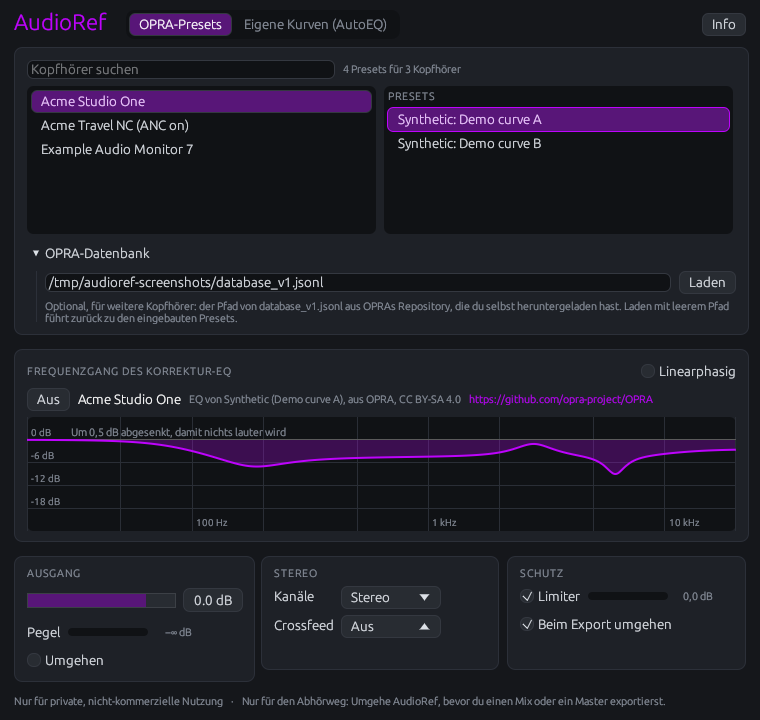
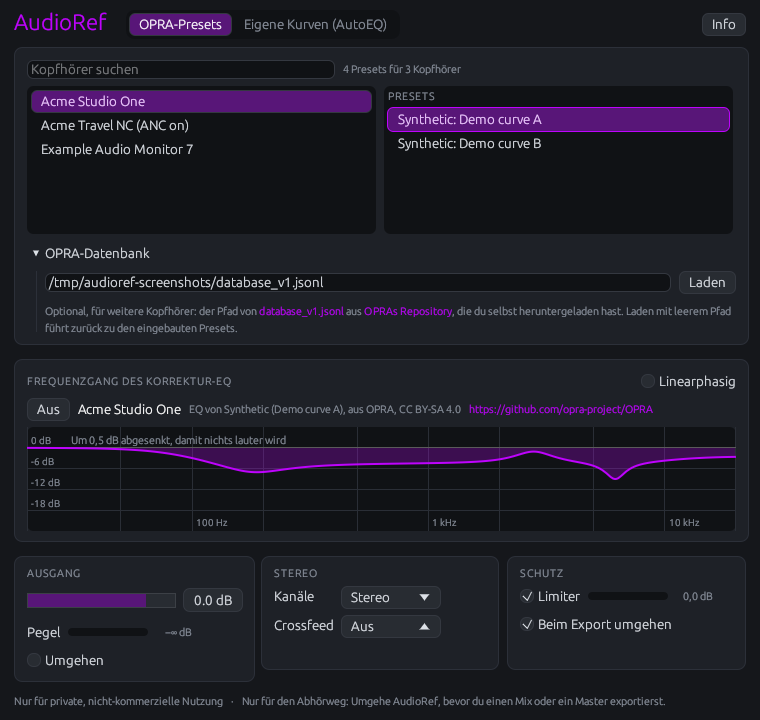
Link OPRA's database, OPRA and AutoEQ in the window's notes
The note under "OPRA database" now links database_v1.jsonl to the
download of OPRA's database and "OPRA's repository" to the repository;
the note of the own curves links AutoEQ's repository. The texts with
links are typed texts in the core (i18n::Linked, in pieces), so the
window draws each link where its words are. egui-baseview opens links
with open::that_detached, without nih-plug's AsyncExecutor.

Claude-Session: https://claude.ai/code/session_01LTkkJNP8cWNV9DTV4LfbNk

Changed region(s): [[0.0303, 0.3972, 0.9684, 0.7333], [0.8776, 0.4889, 0.9684, 0.55]]

diff --git a/crates/audioref-core/src/i18n.rs b/crates/audioref-core/src/i18n.rs
@@ -11,6 +11,7 @@
 //! assert_eq!(Param::Output.name(Lang::from_locale("en-GB")), "Output");
 //! ```
 
+use crate::profiles::{AUTOEQ_REPOSITORY, OPRA_DATABASE_LINK, OPRA_REPOSITORY};
 use crate::stereo::{Channels, Crossfeed};
 
 /// A language of AudioRef's texts.
@@ -206,9 +207,6 @@ impl Notice {
 pub enum Text {
     /// The heading of the part where OPRA's file is loaded.
     Database,
-    /// What the file is for, that users download it themselves, and how to go back to the
-    /// built-in presets.
-    DatabaseHint,
     /// The button that loads the file.
     Load,
     /// While the file loads.
@@ -233,8 +231,6 @@ pub enum Text {
     SourceOpra,
     /// The tab with the own measurement and target.
     SourceCurves,
-    /// What the files of the own curves are, and that users download them themselves.
-    CurvesHint,
     /// The label of the measurement's file.
     Measurement,
     /// The label of the target's file.
@@ -265,9 +261,8 @@ pub enum Text {
 
 impl Text {
     /// All texts, e.g. for tests.
-    pub const ALL: [Self; 28] = [
+    pub const ALL: [Self; 26] = [
         Self::Database,
-        Self::DatabaseHint,
         Self::Load,
         Self::Loading,
         Self::NotOpra,
@@ -280,7 +275,6 @@ impl Text {
         Self::TurnOff,
         Self::SourceOpra,
         Self::SourceCurves,
-        Self::CurvesHint,
         Self::Measurement,
         Self::Target,
         Self::NotCurve,
@@ -308,9 +302,6 @@ impl Text {
     fn en(self) -> &'static str {
         match self {
             Self::Database => "OPRA database",
-            Self::DatabaseHint => {
-                "Optional, for more headphones: the path of database_v1.jsonl from OPRA's repository, which you downloaded yourself. Load with an empty path to go back to the built-in presets."
-            }
             Self::Load => "Load",
             Self::Loading => "Loading…",
             Self::NotOpra => "This file isn't OPRA's database.",
@@ -323,9 +314,6 @@ impl Text {
             Self::TurnOff => "Off",
             Self::SourceOpra => "OPRA presets",
             Self::SourceCurves => "Own curves (AutoEQ)",
-            Self::CurvesHint => {
-                "A measurement of your headphones and a target, as CSV files that you downloaded yourself, e.g. from AutoEQ's repository: measurements/oratory1990/data/over-ear/… and targets/…."
-            }
             Self::Measurement => "Measurement",
             Self::Target => "Target",
             Self::NotCurve => {
@@ -347,9 +335,6 @@ impl Text {
     fn de(self) -> &'static str {
         match self {
             Self::Database => "OPRA-Datenbank",
-            Self::DatabaseHint => {
-                "Optional, für weitere Kopfhörer: der Pfad von database_v1.jsonl aus OPRAs Repository, die du selbst heruntergeladen hast. Laden mit leerem Pfad führt zurück zu den eingebauten Presets."
-            }
             Self::Load => "Laden",
             Self::Loading => "Wird geladen …",
             Self::NotOpra => "Diese Datei ist nicht OPRAs Datenbank.",
@@ -362,9 +347,6 @@ impl Text {
             Self::TurnOff => "Aus",
             Self::SourceOpra => "OPRA-Presets",
             Self::SourceCurves => "Eigene Kurven (AutoEQ)",
-            Self::CurvesHint => {
-                "Eine Messung deiner Kopfhörer und eine Zielkurve, als CSV-Dateien, die du selbst heruntergeladen hast, z. B. aus AutoEQs Repository: measurements/oratory1990/data/over-ear/… und targets/…."
-            }
             Self::Measurement => "Messung",
             Self::Target => "Zielkurve",
             Self::NotCurve => {
@@ -380,6 +362,92 @@ impl Text {
             Self::Protection => "Schutz",
             Self::LinearPhase => "Linearphasig",
             Self::DbPerOctave => " dB/Okt.",
+        }
+    }
+}
+
+/// A piece of a text with links: plain text, or a link with its text and its address.
+#[derive(Debug, Clone, Copy, PartialEq, Eq, Hash)]
+pub enum Piece {
+    /// Plain text.
+    Plain(&'static str),
+    /// A link: the text that shows, and the address it opens.
+    Link {
+        /// The text that shows.
+        text: &'static str,
+        /// The address it opens in the browser.
+        url: &'static str,
+    },
+}
+
+/// The texts of the window with links in them, in pieces, so the window draws the links where
+/// their words are.
+#[derive(Debug, Clone, Copy, PartialEq, Eq, Hash)]
+pub enum Linked {
+    /// What OPRA's file is for, where it comes from, that users download it themselves, and how
+    /// to go back to the built-in presets.
+    DatabaseHint,
+    /// What the files of the own curves are, where they come from, and that users download them
+    /// themselves.
+    CurvesHint,
+}
+
+impl Linked {
+    /// All texts with links, e.g. for tests.
+    pub const ALL: [Self; 2] = [Self::DatabaseHint, Self::CurvesHint];
+
+    /// The pieces of the text in a language, in order.
+    #[must_use]
+    pub fn pieces(self, lang: Lang) -> &'static [Piece] {
+        const DATABASE: Piece = Piece::Link {
+            text: "database_v1.jsonl",
+            url: OPRA_DATABASE_LINK,
+        };
+        match (self, lang) {
+            (Self::DatabaseHint, Lang::En) => &[
+                Piece::Plain("Optional, for more headphones: the path of "),
+                DATABASE,
+                Piece::Plain(" from "),
+                Piece::Link {
+                    text: "OPRA's repository",
+                    url: OPRA_REPOSITORY,
+                },
+                Piece::Plain(
+                    ", which you downloaded yourself. Load with an empty path to go back to the built-in presets.",
+                ),
+            ],
+            (Self::DatabaseHint, Lang::De) => &[
+                Piece::Plain("Optional, für weitere Kopfhörer: der Pfad von "),
+                DATABASE,
+                Piece::Plain(" aus "),
+                Piece::Link {
+                    text: "OPRAs Repository",
+                    url: OPRA_REPOSITORY,
+                },
+                Piece::Plain(
+                    ", die du selbst heruntergeladen hast. Laden mit leerem Pfad führt zurück zu den eingebauten Presets.",
+                ),
+            ],
+            (Self::CurvesHint, Lang::En) => &[
+                Piece::Plain(
+                    "A measurement of your headphones and a target, as CSV files that you downloaded yourself, e.g. from ",
+                ),
+                Piece::Link {
+                    text: "AutoEQ's repository",
+                    url: AUTOEQ_REPOSITORY,
+                },
+                Piece::Plain(": measurements/oratory1990/data/over-ear/… and targets/…."),
+            ],
+            (Self::CurvesHint, Lang::De) => &[
+                Piece::Plain(
+                    "Eine Messung deiner Kopfhörer und eine Zielkurve, als CSV-Dateien, die du selbst heruntergeladen hast, z. B. aus ",
+                ),
+                Piece::Link {
+                    text: "AutoEQs Repository",
+                    url: AUTOEQ_REPOSITORY,
+                },
+                Piece::Plain(": measurements/oratory1990/data/over-ear/… und targets/…."),
+            ],
         }
     }
 }
@@ -1006,7 +1074,8 @@ impl About {
 
 #[cfg(test)]
 mod tests {
-    use super::{About, CurveMessage, Hint, Lang, Message, Notice, Param, Text};
+    use super::{About, CurveMessage, Hint, Lang, Linked, Message, Notice, Param, Piece, Text};
+    use crate::profiles::{AUTOEQ_REPOSITORY, OPRA_DATABASE_LINK, OPRA_REPOSITORY};
     use crate::stereo::{Channels, Crossfeed};
 
     #[test]
@@ -1073,6 +1142,74 @@ mod tests {
             }
         }
         assert_eq!(Text::Load.text(Lang::De), "Laden");
+    }
+
+    /// The links of a text with links, as (text, address).
+    fn links(text: Linked, lang: Lang) -> Vec<(&'static str, &'static str)> {
+        text.pieces(lang)
+            .iter()
+            .filter_map(|piece| match *piece {
+                Piece::Plain(_) => None,
+                Piece::Link { text, url } => Some((text, url)),
+            })
+            .collect()
+    }
+
+    /// A text with links as it reads, without the addresses.
+    fn reads(text: Linked, lang: Lang) -> String {
+        text.pieces(lang)
+            .iter()
+            .map(|piece| match *piece {
+                Piece::Plain(text) | Piece::Link { text, .. } => text,
+            })
+            .collect()
+    }
+
+    #[test]
+    fn every_text_with_links_exists_in_every_language() {
+        for text in Linked::ALL {
+            assert_ne!(reads(text, Lang::En), reads(text, Lang::De), "{text:?}");
+            for lang in Lang::ALL {
+                assert!(!links(text, lang).is_empty(), "{text:?} in {lang:?}");
+                for piece in text.pieces(lang) {
+                    let words = match *piece {
+                        Piece::Plain(words) => words,
+                        Piece::Link { text, url } => {
+                            assert!(url.starts_with("https://"), "{url}");
+                            text
+                        }
+                    };
+                    assert!(!words.is_empty(), "{text:?} in {lang:?}");
+                }
+            }
+        }
+    }
+
+    #[test]
+    fn the_hints_link_opra_and_autoeq() {
+        assert_eq!(
+            links(Linked::DatabaseHint, Lang::En),
+            [
+                ("database_v1.jsonl", OPRA_DATABASE_LINK),
+                ("OPRA's repository", OPRA_REPOSITORY),
+            ]
+        );
+        assert_eq!(
+            links(Linked::DatabaseHint, Lang::De),
+            [
+                ("database_v1.jsonl", OPRA_DATABASE_LINK),
+                ("OPRAs Repository", OPRA_REPOSITORY),
+            ]
+        );
+        assert_eq!(
+            links(Linked::CurvesHint, Lang::De),
+            [("AutoEQs Repository", AUTOEQ_REPOSITORY)]
+        );
+        assert_eq!(
+            reads(Linked::CurvesHint, Lang::En),
+            "A measurement of your headphones and a target, as CSV files that you downloaded yourself, e.g. from AutoEQ's repository: measurements/oratory1990/data/over-ear/… and targets/…."
+        );
+        assert!(OPRA_DATABASE_LINK.ends_with("/dist/database_v1.jsonl"));
     }
 
     #[test]

diff --git a/crates/audioref/src/editor.rs b/crates/audioref/src/editor.rs
@@ -16,8 +16,11 @@ use audioref_core::cascade::{Cascade, grid};
 use audioref_core::design::{BASS_DB, MAX_BOOST_DB, Settings, TILT_DB_PER_OCTAVE};
 use audioref_core::filter::Phase;
 use audioref_core::gain::gain_to_db;
-use audioref_core::i18n::{About, CurveMessage, Hint, LEVEL_FLOOR_DB, Lang, Message, Notice, Text};
+use audioref_core::i18n::{
+    About, CurveMessage, Hint, LEVEL_FLOOR_DB, Lang, Linked, Message, Notice, Piece, Text,
+};
 use audioref_core::opra::Database;
+use audioref_core::profiles::OPRA_REPOSITORY;
 use audioref_core::state::{SavedCorrection, SavedDesign};
 use audioref_core::stereo::{Channels, Crossfeed};
 use nih_plug::prelude::{BoolParam, Editor, IntParam, Param, ParamSetter};
@@ -36,9 +39,6 @@ const LIST_HEIGHT: f32 = 140.0;
 
 /// The most headphones the search lists.
 const RESULTS: usize = 200;
-
-/// OPRA's repository, linked under the preset's author, as OPRA asks.
-const OPRA_URL: &str = "https://github.com/opra-project/OPRA";
 
 /// The height of the cards of the controls, so they end together.
 const CONTROLS_HEIGHT: f32 = 92.0;
@@ -370,8 +370,26 @@ fn database(
             if let Some(problem) = problem {
                 ui.colored_label(theme::HOT, problem);
             }
-            ui.add(egui::Label::new(theme::note(Text::DatabaseHint.text(lang))).wrap());
+            linked(ui, lang, Linked::DatabaseHint, |words| theme::note(words));
         });
+}
+
+/// A text with links, wrapped as one paragraph: its words in a style, its links small in the
+/// accent color. egui-baseview opens a link in the browser on its own thread, with no executor.
+fn linked(ui: &mut egui::Ui, lang: Lang, text: Linked, style: fn(&str) -> egui::RichText) {
+    ui.horizontal_wrapped(|ui| {
+        ui.spacing_mut().item_spacing.x = 0.0;
+        for piece in text.pieces(lang) {
+            match *piece {
+                Piece::Plain(words) => {
+                    ui.label(style(words));
+                }
+                Piece::Link { text, url } => {
+                    ui.hyperlink_to(egui::RichText::new(text).small(), url);
+                }
+            }
+        }
+    });
 }
 
 /// The search with what it searches, and the headphones it found beside their presets.
@@ -552,7 +570,9 @@ fn curves(
     params: &AudioRefParams,
     shared: &Shared,
 ) {
-    ui.add(egui::Label::new(egui::RichText::new(Text::CurvesHint.text(lang)).small()).wrap());
+    linked(ui, lang, Linked::CurvesHint, |words| {
+        egui::RichText::new(words).small()
+    });
     let rows = [
         (
             Which::Measurement,
@@ -718,7 +738,11 @@ fn correction(
         }
         ui.label(egui::RichText::new(&saved.headphones).strong());
         ui.label(theme::note(attribution.text(lang)));
-        ui.hyperlink_to(egui::RichText::new(OPRA_URL).small(), OPRA_URL);
+        // OPRA's repository, linked under the preset's author, as OPRA asks.
+        ui.hyperlink_to(
+            egui::RichText::new(OPRA_REPOSITORY).small(),
+            OPRA_REPOSITORY,
+        );
     });
     show_curve(ui, lang, state.curve.as_ref());
 }

diff --git a/crates/audioref-core/src/profiles.rs b/crates/audioref-core/src/profiles.rs
@@ -26,6 +26,16 @@
 pub const OPRA_DATABASE_URL: &str =
     "https://raw.githubusercontent.com/opra-project/OPRA/main/dist/database_v1.jsonl";
 
+/// OPRA's repository, as the window links it.
+pub const OPRA_REPOSITORY: &str = "https://github.com/opra-project/OPRA";
+
+/// OPRA's database as the window links it: GitHub's download of the file on the main branch.
+pub const OPRA_DATABASE_LINK: &str =
+    "https://github.com/opra-project/OPRA/raw/refs/heads/main/dist/database_v1.jsonl";
+
+/// AutoEQ's repository, as the window links it.
+pub const AUTOEQ_REPOSITORY: &str = "https://github.com/jaakkopasanen/AutoEq";
+
 /// The start of every address of a file in AutoEQ's repository, on its main branch.
 pub const AUTOEQ_URL: &str = "https://raw.githubusercontent.com/jaakkopasanen/AutoEq/master/";
 

diff --git a/docs/manual/de.md b/docs/manual/de.md
@@ -157,7 +157,7 @@ Neben der Suche steht, wie viele Presets die Liste enthält, z. B. „Eingebaut:
 
 Für andere Kopfhörer lädst du OPRAs ganze Datenbank herunter und lässt AudioRef sie lesen:
 
-1. Lade die Datei [`dist/database_v1.jsonl`](https://github.com/opra-project/OPRA/tree/main/dist) aus OPRAs Repository herunter, etwa 12 MB, und leg sie irgendwo ab, z. B. in deinen Dokumenten.
+1. Lade die Datei [`dist/database_v1.jsonl`](https://github.com/opra-project/OPRA/tree/main/dist) aus OPRAs Repository herunter, etwa 12 MB, und leg sie irgendwo ab, z. B. in deinen Dokumenten. Der Hinweis unter dem Feld in **OPRA-Datenbank** verlinkt die Datei auch: Klicke dort auf `database_v1.jsonl`, um sie im Browser herunterzuladen, oder auf **OPRAs Repository**, um zu sehen, woher sie kommt.
 2. Öffne im Fenster von AudioRef **OPRA-Datenbank** unter den Listen.
 3. Füge den Pfad der Datei in das Feld ein, z. B. `C:\Users\du\Documents\database_v1.jsonl` oder `/Users/du/Documents/database_v1.jsonl`, und klicke **Laden**.
 
@@ -209,7 +209,7 @@ Beide Kurven sind CSV-Dateien mit einer Spalte Frequenzen in Hz und einer Spalte
 - Messungen, z. B. `measurements/oratory1990/data/over-ear/AKG K240 Studio.csv`.
 - Zielkurven, z. B. `targets/Harman over-ear 2018.csv`.
 
-Lade sie selbst herunter: AudioRef liefert keine Messungen mit. Sie sind nur für deine private, nicht-kommerzielle Nutzung, siehe [Nutzungsbedingungen](#nutzungsbedingungen).
+Lade sie selbst herunter: AudioRef liefert keine Messungen mit. Der Hinweis oben im Tab **Eigene Kurven (AutoEQ)** verlinkt AutoEQs Repository: Klicke auf **AutoEQs Repository**, um es im Browser zu öffnen. Sie sind nur für deine private, nicht-kommerzielle Nutzung, siehe [Nutzungsbedingungen](#nutzungsbedingungen).
 
 AudioRef liest AutoEQs Format, eine Kopfzeile `frequency,raw` und eine Zeile je Frequenz, und was andere Programme schreiben: weitere Spalten (es nimmt die Spalte `raw`, sonst die nach der Frequenz), keine Kopfzeile, Semikolons mit Dezimalkomma, Tabs oder Leerzeichen, und Kommentare, die mit `#` oder `*` beginnen. Eine Kurve braucht mindestens 2 und höchstens 100.000 Punkte, mit steigenden Frequenzen, und muss von 100 Hz bis 10 kHz reichen. Zwischen ihren Punkten zieht AudioRef gerade Linien auf einer logarithmischen Frequenzachse; jenseits ihrer Enden bleibt sie flach.
 

diff --git a/docs/manual/en.md b/docs/manual/en.md
@@ -157,7 +157,7 @@ Beside the search, the window says how many presets the list holds, e.g. "Built 
 
 For other headphones, download OPRA's whole database and let AudioRef read it:
 
-1. Download the file [`dist/database_v1.jsonl`](https://github.com/opra-project/OPRA/tree/main/dist) from OPRA's repository, about 12 MB, and keep it anywhere, e.g. in your documents.
+1. Download the file [`dist/database_v1.jsonl`](https://github.com/opra-project/OPRA/tree/main/dist) from OPRA's repository, about 12 MB, and keep it anywhere, e.g. in your documents. The note under the field in **OPRA database** links the file too: click `database_v1.jsonl` there to download it in your browser, or **OPRA's repository** to see where it comes from.
 2. In AudioRef's window, open **OPRA database** below the lists.
 3. Paste the file's path into the field, e.g. `C:\Users\you\Documents\database_v1.jsonl` or `/Users/you/Documents/database_v1.jsonl`, and click **Load**.
 
@@ -209,7 +209,7 @@ Both curves are CSV files with a column of frequencies in Hz and one of levels i
 - Measurements, e.g. `measurements/oratory1990/data/over-ear/AKG K240 Studio.csv`.
 - Targets, e.g. `targets/Harman over-ear 2018.csv`.
 
-Download them yourself: AudioRef ships no measurements. They are for your private, non-commercial use only, see [Terms of use](#terms-of-use).
+Download them yourself: AudioRef ships no measurements. The note at the top of the tab **Own curves (AutoEQ)** links AutoEQ's repository: click **AutoEQ's repository** to open it in your browser. They are for your private, non-commercial use only, see [Terms of use](#terms-of-use).
 
 AudioRef reads AutoEQ's format, a header `frequency,raw` and a line per frequency, and what other tools write: more columns (it takes the column `raw`, or else the one after the frequency), no header, semicolons with decimal commas, tabs or spaces, and comments starting with `#` or `*`. A curve needs at least 2 points and at most 100,000, with rising frequencies, and must reach from 100 Hz to 10 kHz. Between its points, AudioRef draws straight lines on a logarithmic frequency axis; beyond its ends, it stays flat.
 

diff --git a/CHANGELOG.md b/CHANGELOG.md
@@ -27,4 +27,5 @@ All changes users of AudioRef can notice are listed here. The format follows [Ke
 - `cargo xtask fetch-profiles`, for those who build AudioRef from source: downloads OPRA's database, AutoEQ's Harman target and oratory1990's measurements of the headphones you name, the three above by default, into a folder outside the repository, and checks that AudioRef can read them, see [Fetching the files](README.md#fetching-the-files).
 - A user manual in English and German, as PDF in every archive and with every release, and as Markdown in [docs/manual](docs/manual/en.md): installing, the window, presets and your own curves, linear phase, the parameters, using AudioRef in your DAW, a reference and troubleshooting.
 - DAWs that sort their plugins by category list AudioRef under **Mastering**, the VST3 and the CLAP version alike, as it belongs last on the master track; some also list it under EQ.
+- Links in the window's notes: under **OPRA database**, `database_v1.jsonl` downloads OPRA's database in your browser and "OPRA's repository" opens its repository; in the tab "Own curves (AutoEQ)", "AutoEQ's repository" opens AutoEQ's.
 - The pre-release [`snapshot`](https://github.com/FionaPreroll/audioref/releases/tag/snapshot) with the plugin bundles of the latest commit on `main`.
